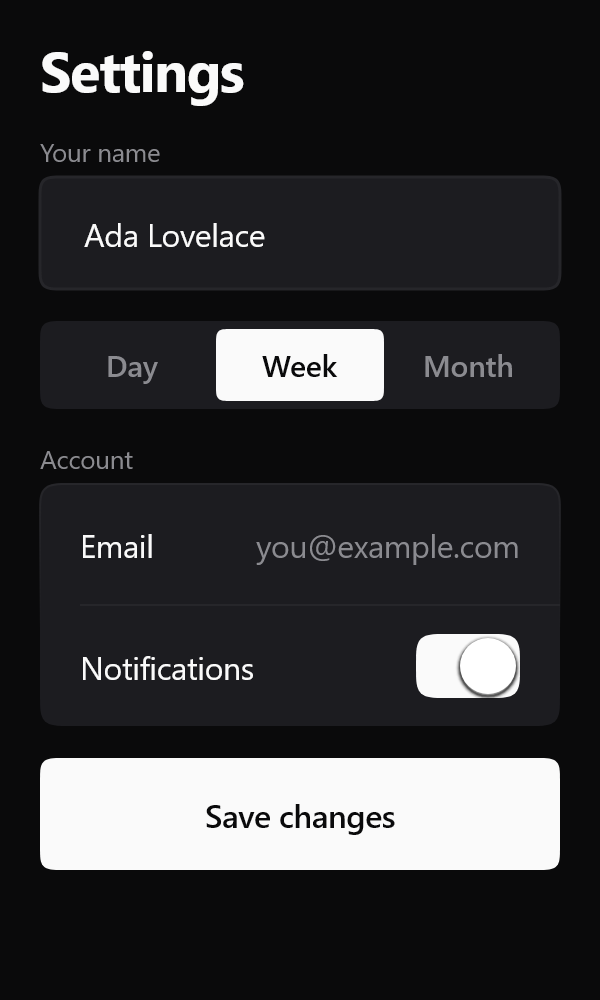
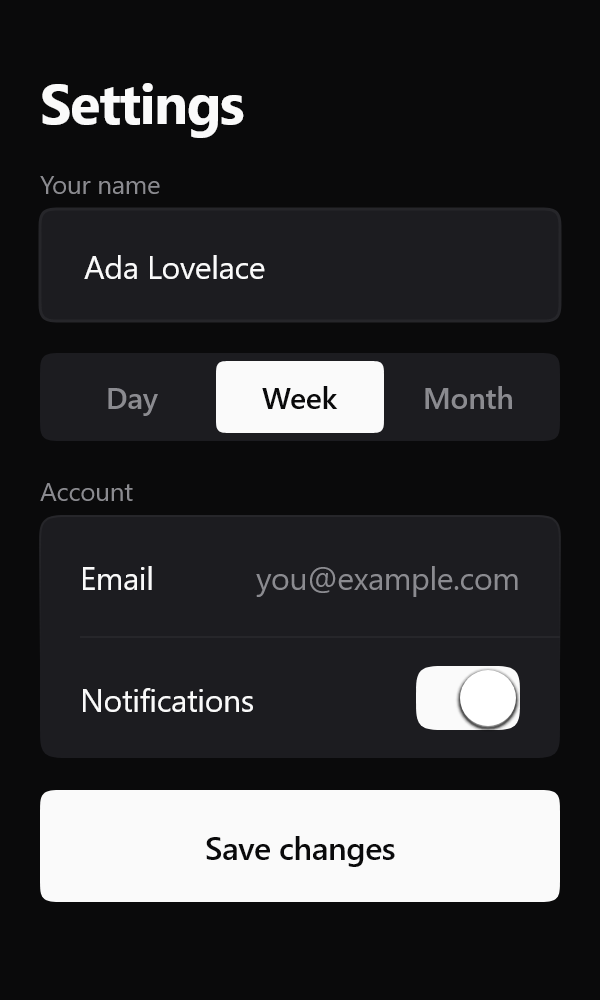
Rebuild the masthead and footer around a mark
Taken from a full site design the founder generated, whose header and
footer were the parts worth keeping. A mark before the wordmark, because
every affordance on this page was a word and that is what made it read
as a document. Nav moves next to the name it belongs to; the right edge
is for state - which version, which scheme - not for navigation. The bar
is translucent over a blur, so content passing under a sticky header is
visible as it goes rather than the header reading as a lid.

The footer carries its own surface and a top border, so the page ends
rather than stops, and its six links are in columns beside a brand block
instead of a single row of pills.

The content is unchanged and that is the point. The layout was borrowed;
what goes in it is this site's decision. The first attempt copied the
reference's build-metadata lines across with its structure, which
invented content nobody asked for and deleted the copyright line added
earlier the same day. Restored, and the comments say why so the next
borrow does not repeat it.

The version chip is the one addition. It reads currentCli, so it cannot
drift from the jar the install page links to, and a library with no
visible version reads as unmaintained - the one objection this category
actually has.

The old .colophon rules are deleted rather than overridden. The rebuilt
inner div still carries `shell` for its width, so `.colophon .shell`
would have fought the new grid from two sections away.
[…]

diff --git a/src/styles/design.css b/src/styles/design.css
@@ -341,7 +341,13 @@ hr { height: 1px; border: 0; background: var(--line); margin: 0; }
   position: sticky;
   top: 0;
   z-index: var(--z-sticky);
-  background: var(--bg);
+  /* Translucent over a blur rather than an opaque bar. Content passing under a
+     sticky header should be visible as it goes, or the header reads as a lid.
+     The fallback is the solid colour on the line below, which every browser
+     without backdrop-filter gets and which is what shipped before. */
+  background: color-mix(in oklab, var(--bg) 86%, transparent);
+  -webkit-backdrop-filter: blur(10px);
+  backdrop-filter: blur(10px);
   border-block-end: 1px solid transparent;
   transition: border-color var(--dur-surface) var(--ease);
 }
@@ -366,11 +372,15 @@ hr { height: 1px; border: 0; background: var(--line); margin: 0; }
 }
 .wordmark span { color: var(--ink-faint); font-weight: 500; }
 
+/* The nav sits after the wordmark and pushes everything else right, rather
+   than being pushed right itself. Changed 2026-08-19: destinations belong next
+   to the name they belong to, and the right edge is for state - which version,
+   which scheme - not for navigation. */
 .masthead nav {
   display: flex;
   align-items: center;
   gap: var(--space-2xs);
-  margin-inline-start: auto;
+  margin-inline-end: auto;
 }
 .masthead nav a {
   display: inline-flex;
@@ -484,35 +494,13 @@ hr { height: 1px; border: 0; background: var(--line); margin: 0; }
 
 /* --------------------------------------------------------------------------
    11. Footer
-   -------------------------------------------------------------------------- */
 
-.colophon {
-  margin-block-start: var(--space-3xl);
-  border-block-start: 1px solid var(--line);
-  padding-block: var(--space-xl);
-  font-size: var(--step--1);
-  color: var(--ink-faint);
-}
-.colophon .shell { display: flex; flex-wrap: wrap; gap: var(--space-s) var(--space-xl); align-items: center; }
-/* No `margin-inline-start: auto`. It existed to push a single nav away from the
-   colophon text beside it; with that text gone it shoved both navs against the
-   right edge and left the row two thirds empty. They read left to right now,
-   and wrap onto a second line only when the viewport genuinely cannot hold six
-   links. */
-.colophon nav { display: flex; flex-wrap: wrap; gap: var(--space-m); }
-.colophon nav a {
-  display: inline-flex;
-  align-items: center;
-  min-height: 44px;
-  padding-inline: var(--space-s);
-  border-radius: var(--r-full);
-  color: var(--ink-muted);
-  text-decoration: none;
-}
-.colophon nav a:hover {
-  color: var(--ink);
-  background: color-mix(in oklab, var(--ink) 8%, transparent);
-}
+   The one-row version lived here until 2026-08-19: a copyright line and six
+   pill links, all the same weight. Its rules are gone rather than overridden -
+   `.colophon .shell` in particular still matched the rebuilt inner div, which
+   carries `shell` for its width, and would have fought the grid from two
+   sections away. The replacement is under section 12.
+   -------------------------------------------------------------------------- */
 
 /* The lit top edge, dark only. Added 2026-08-19, and it is the same mechanism
    the registry's card and sheet use: a hairline along the top, brighter than
@@ -530,6 +518,83 @@ hr { height: 1px; border: 0; background: var(--line); margin: 0; }
 :root:not([data-theme="light"]) .pop {
   box-shadow: inset 0 1px 0 rgba(250, 250, 250, 0.055);
 }
+
+
+/* The mark, shared by the masthead and the footer. `flex: none` because an SVG
+   in a flex row is otherwise squashed before the text it sits beside is. */
+.wordmark .mark,
+.colophon__mark .mark { flex: none; margin-inline-end: 0.5em; }
+
+/* The version chip. A link rather than a label: it says which version, and the
+   only useful thing to do with that is read what changed. */
+.version {
+  display: inline-flex;
+  align-items: center;
+  min-height: 32px;
+  padding-inline: var(--space-s);
+  border: 1px solid var(--line);
+  border-radius: var(--r-s);
+  font-family: var(--font-mono);
+  font-size: var(--step--2);
+  color: var(--ink-faint);
+  text-decoration: none;
+  white-space: nowrap;
+}
+.version:hover { color: var(--ink); border-color: var(--line-strong); }
+
+/* --------------------------------------------------------------------------
+   The footer, rebuilt 2026-08-19
+
+   It was one row: a copyright line and six links, all the same weight. That is
+   a legal notice, not a colophon. This is a brand block and its machine facts
+   on one side, destinations in columns on the other - the shape a footer has
+   when it is designed rather than appended.
+
+   It carries its own surface and a top border, so the page ends rather than
+   stopping. --bg-sunk in both schemes: darker than the page in light, lighter
+   in dark, and a distinct band either way.
+   -------------------------------------------------------------------------- */
+.colophon {
+  margin-block-start: var(--space-3xl);
+  border-block-start: 1px solid var(--line);
+  background: var(--bg-sunk);
+  padding-block: var(--space-xl) var(--space-2xl);
+  font-size: var(--step--1);
+}
+.colophon__inner {
+  display: flex;
+  flex-wrap: wrap;
+  gap: var(--space-xl) var(--space-3xl);
+  justify-content: space-between;
+}
+.colophon__mark {
+  display: inline-flex;
+  align-items: center;
+  font-weight: 600;
+  color: var(--ink);
+}
+.colophon__meta {
+  margin-block-start: var(--space-xs);
+  color: var(--ink-faint);
+}
+.colophon__nav {
+  display: flex;
+  flex-wrap: wrap;
+  gap: var(--space-2xl);
+}
+.colophon__links {
+  display: grid;
+  align-content: start;
+  gap: var(--space-2xs);
+}
+.colophon__links a {
+  display: inline-flex;
+  align-items: center;
+  min-height: 32px;
+  color: var(--ink-muted);
+  text-decoration: none;
+}
+.colophon__links a:hover { color: var(--ink); }
 
 /* --------------------------------------------------------------------------
    12. Surfaces
